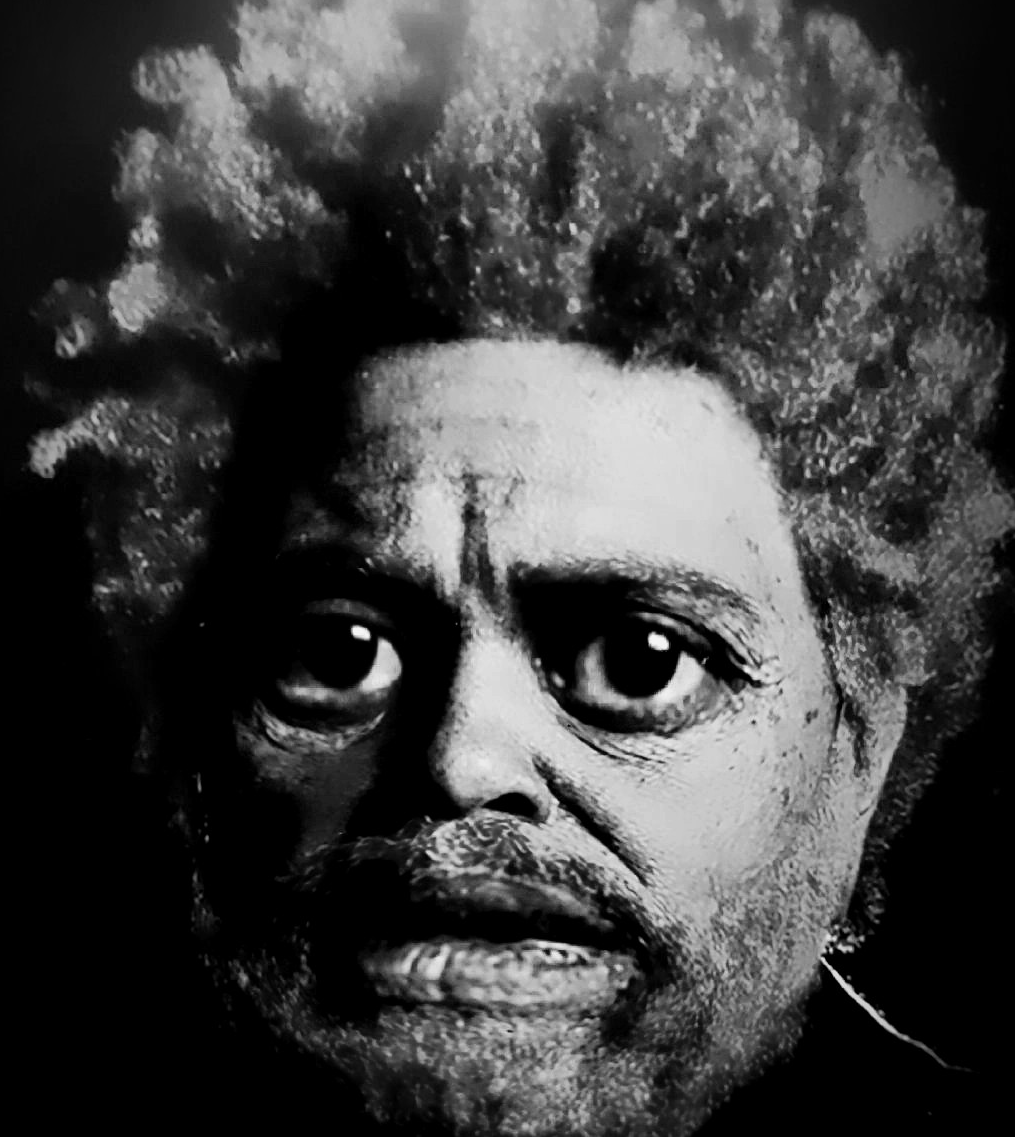
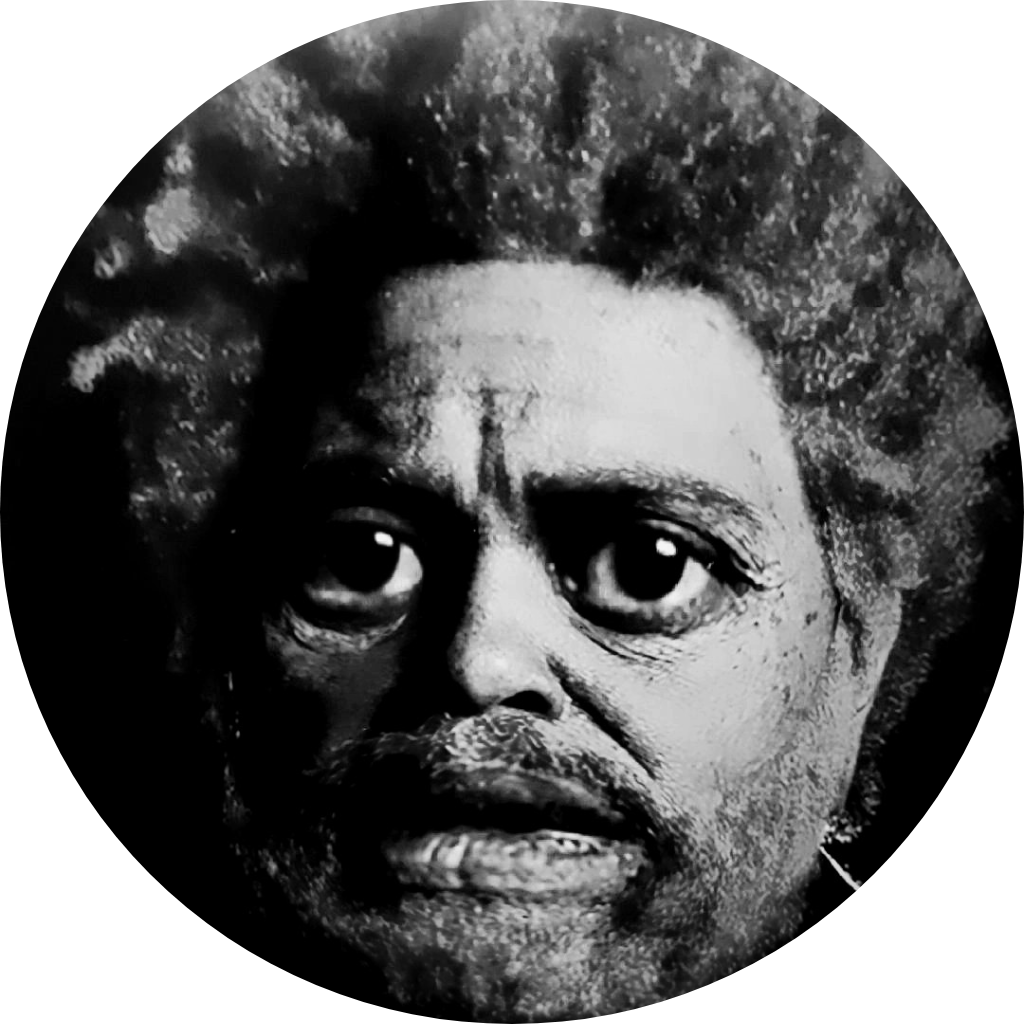
complete 3.0

diff --git a/students/Rex/Production.html b/students/Rex/Production.html
@@ -66,7 +66,7 @@
         <details class="center">
             <summary>Shot list, story board</summary>
             <p>
-                <img src="./images/Story board/Story board(1-4).png" width="400"><br />
+                <img src="./images/Story board/Story board(1-4).jpg" width="400"><br />
                 Scene1 shot 1:<br />
                 The interviewer was seeing the job applicant.<br />
                 Need an actor<br />
@@ -89,7 +89,7 @@
                 Need an actor<br />
                 Indoor<br /><br />
 
-                <img src="./images/Story board/Story board(5-8).png" width="400"><br />
+                <img src="./images/Story board/Story board(5-8).jpg" width="400"><br />
                 Scene1 shot 5:<br />
                 The applicant sits down.<br />
                 Need an actor<br />
@@ -110,7 +110,7 @@
                 In park<br />
                 Need an actor<br /><br />
 
-                <img src="./images/Story board/Story board(9-12).png" width="400"><br />
+                <img src="./images/Story board/Story board(9-12).jpg" width="400"><br />
                 Scene2 shot 5:<br />
                 They’re talking about how he can’t use the toilet.<br />
                 Need an actor<br />
@@ -132,7 +132,7 @@
                 Need an actor<br />
                 Indoor<br /><br />
 
-                <img src="./images/Story board/Story board(13-16).png" width="400"><br />
+                <img src="./images/Story board/Story board(13-16).jpg" width="400"><br />
                 Scene2 shot 9:<br />
                 (memory) The applicant was drawing the sofa.<br />
                 Need a sofa<br />
@@ -157,7 +157,7 @@
                 Need an actor<br />
                 Indoor<br /><br />
 
-                <img src="./images/Story board/Story board(17-20).png" width="400"><br />
+                <img src="./images/Story board/Story board(17-20).jpg" width="400"><br />
                 Scene3, shot 4:<br />
                 They’re talking about where the applicant lives.<br />
                 The color temperature: warm<br />
@@ -182,7 +182,7 @@
                 Under arcade<br />
                 Need an actor<br /><br />
 
-                <img src="./images/Story board/Story board(21-24).png" width="400"><br />
+                <img src="./images/Story board/Story board(21-24).jpg" width="400"><br />
                 Scene3 shot 4:<br />
                 The applicant loves this job.<br />
                 The color temperature: warm<br />
